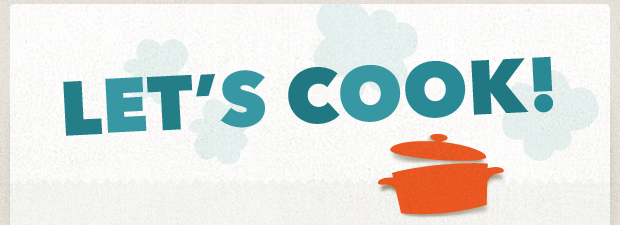
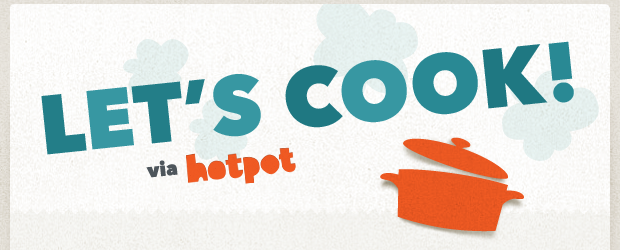
coded new reminder email design

diff --git a/templates/email/reminder.html b/templates/email/reminder.html
@@ -1,8 +1,118 @@
+<table width="100%" bgcolor="#e5e2da" style="background:url(http://test.letsgohotpot.com/static/images/email/bg.png);" cellpadding="20" cellspacing="0" border="0"><tr><td align="center">
+
+<table cellpadding="0" cellspacing="0" width="620" bgcolor="#ffffff" style="background:url(http://test.letsgohotpot.com/static/images/email/bg_Main.png);">
+
+	<!-- INVITE HEADER -->
+
+	<tr>
+		<td colspan="3">
+			<img style="display:block;" src="http://test.letsgohotpot.com/static/images/email/reminderHeader.png" width="620" height="265" alt="Get ready to cook!">
+		</td>
+	</tr>
+	
+	<!-- TITLE and DESCRIPTION -->
+	
+	<tr>
+		<td width="50" style="background:url(http://test.letsgohotpot.com/static/images/email/bg_MainLeft.png)"></td>
+		<td width="520" style="background:url(http://test.letsgohotpot.com/static/email/bg_Main.png)">
+		
+			<p style="text-align:center; line-height:1.5em; font-family:'Helvetica Neue', Helvetica, Arial, sans-serif; font-weight: 300; color:#4e565c; font-size:20px;">Tomorrow, <strong style="font-weight:bold;">{{ invitation.readableDate }}</strong>, is Hotpot day!</p>
+			
+			<p style="text-align:center; line-height:1.5em; font-family:'Helvetica Neue', Helvetica, Arial, sans-serif; font-weight: 300; color:#4e565c; font-size:20px;">At <strong style="font-weight:bold;">{{ invitation.readableTime|safe }}</strong>, you and <strong style="font-weight:bold;">{% for attendee in attendees %}{% if attendee.name != user.name %}{{ attendee.name }}{% endif %}{% endfor %}</strong> will be making:</p>
+			
+			<h1 style="text-align:center; font-weight:bold; color:#1c6770; font-size:35px; font-family:'Helvetica Neue', Helvetica, Arial, sans-serif;">{{ meal.title }}</h1>
+			
+			<p style="text-align:center; line-height:1.5em; font-family:'Helvetica Neue', Helvetica, Arial, sans-serif; font-weight: 300; color:#4e565c; font-size:20px;">Here is your Cooking Room:</p>
+			
+			<p style="text-align:center"><a href="http://test.letsgohotpot.com/rooms/{{ invitation._id }}" id="RSVPButton"><img src="http://test.letsgohotpot.com/static/images/email/button_launchCookingRoom.png" width="314" height="45" alt="Launch cooking room"></a></p>
+			
+			<p style="text-align:center; line-height:1.5em; font-family:'Helvetica Neue', Helvetica, Arial, sans-serif; font-weight: 300; color:#4e565c; font-size:13px;">At the agreed-upon time, just click the link above and cook away! (If you lose this email, don't worry. You can always find the link on your Hotpot Invitations page, under Upcoming.)</p>
+			
+		</td>
+		<td width="50" style="background:url(http://test.letsgohotpot.com/static/images/email/bg_MainRight.png)"></td>
+	</tr>
+	
+	<!-- a small gap -->
+	
+	<tr>
+		<td width="50" height="30" style="background:url(http://test.letsgohotpot.com/static/images/email/bg_MainLeft.png)"></td>
+		<td width="520" style="background:url(http://test.letsgohotpot.com/static/email/bg_Main.png)">
+		</td>
+		<td width="50" style="background:url(http://test.letsgohotpot.com/static/images/email/bg_MainRight.png)"></td>
+	</tr>
+	
+	<!-- ADDITIONAL INFO -->
+	
+	<tr>
+		<td width="50" style="background:url(http://test.letsgohotpot.com/static/images/email/bg_MainLeft.png)"></td>
+		<td width="520" style="background:url(http://test.letsgohotpot.com/static/email/bg_Main.png)">
+			<table cellpadding="0" cellspacing="0" border="0" width="100%">
+				<tr>
+					<td width="275" valign="top">
+					
+						<!-- SHOPPING LIST -->
+						
+						<table cellpadding="0" cellspacing="0" border="0" width="100%">
+							
+							<tr>
+								<td colspan="4" valign="top" style="vertical-align:top;"><img style="display:block;" src="http://test.letsgohotpot.com/static/images/email/text_shoppingList.png" alt="Shopping List" height="75" width="275"></td>
+							</tr>
+							
+							{% for ingredient in meal.ingredients %}
+							<tr>
+								<td width="20" style="background:url(http://test.letsgohotpot.com/static/images/email/bg_ShoppingListLeft.png)"></td>
+								<td height="35" style="font-family:'Helvetica Neue', Helvetica, Arial, sans-serif; font-weight: 300; color:#4e565c; font-size:16px; {{ loop.cycle('background:url(http://test.letsgohotpot.com/static/images/email/bg_ShoppingListBlueStripe.png);', '') }}">&nbsp; &nbsp;{{ ingredient.name }}</td>
+								<td align="right" style="text-align:right; font-family:'Helvetica Neue', Helvetica, Arial, sans-serif; font-weight: bold; color:#4e565c; font-size:12px; {{ loop.cycle('background:url(http://test.letsgohotpot.com/static/images/email/bg_ShoppingListBlueStripe.png);', '') }}">{% if ingredient.amount is defined %}{{ ingredient.amount }}{% endif %}&nbsp; &nbsp;</td>
+								<td width="20" style="background:url(http://test.letsgohotpot.com/static/images/email/bg_ShoppingListRight.png)"></td>
+							</tr>
+							{% endfor %}
+							
+							<tr>
+								<td colspan="4"><img style="display:block;" src="http://test.letsgohotpot.com/static/images/email/shoppingListBottom.png" height="21" width="275"></td>
+							</tr>
+						</table>
+					</td>
+					<td width="30" align="center"></td>
+					<td width="217" valign="top" style="vertical-align:top;" style="text-align:left">
+					
+						<!-- ADDITIONAL INFO -->
+					
+						<img style="display:block;" src="http://test.letsgohotpot.com/static/images/email/text_makeSureYouHave.png" width="193" height="13" alt="Make sure you have...">
+						<ul style="font-family:'Helvetica Neue', Helvetica, Arial, sans-serif; color:#4e565c; font-size:13px; line-height:1.4em;">
+							<li>your ingredients</li>
+							<li>a stable internet connection</li>
+							<li>a webcam (highly recommended)</li>
+							<li>the latest version of your favorite browser</li>
+							<li>Flash 11</li>
+						</ul>
+						
+						<img style="display:block;" src="http://test.letsgohotpot.com/static/images/email/text_dontForget.png" width="128" height="13" alt="Don't forget...">
+						
+						<p style="font-family:'Helvetica Neue', Helvetica, Arial, sans-serif; color:#4e565c; font-size:13px; line-height:1.4em;">If there are any ingredients that need defrosting, remember to put them in the fridge overnight so it’s ready to use when you need it.</p>
+					</td>
+				</tr>
+			</table>
+		</td>
+		<td width="50" style="background:url(http://test.letsgohotpot.com/static/images/email/bg_MainRight.png)"></td>
+	</tr>
+	
+	<!-- FOOTER -->
+	
+	<tr>
+		<td colspan="3">
+			<img style="display:block;" src="http://test.letsgohotpot.com/static/images/email/footer.png" width="620" height="115" alt="Brought to you by Hotpot">
+		</td>
+	</tr>
+</table>
+
+</td></tr></table>
+
+
 <h1>We're cooking... tomorrow!</h1>
 
 <h2>Info:</h2>
 <p>Cooking: {{ meal.title }}</p>
-<p>Date: Tomorrow, {{ invitation.readableDate }}</p>
+<p>Date: Tomorrow, </p>
 <p>Time: {{ invitation.readableTime|safe }}</p>
 <p><a href="http://localhost:7777/rooms/{{ invitationId }}">cooking room is here!</a></p>
 

diff --git a/templates/email/invitation.html b/templates/email/invitation.html
@@ -6,7 +6,7 @@
 
 	<tr>
 		<td colspan="3">
-			<img style="display:block;" src="http://test.letsgohotpot.com/static/images/email/invitationHeader.png" width="620" height="225" alt="Let's Cook!">
+			<img style="display:block;" src="http://test.letsgohotpot.com/static/images/email/invitationHeader.png" width="620" height="250" alt="Let's Cook!">
 		</td>
 	</tr>
 	
@@ -139,9 +139,22 @@
 					
 						<!-- HOW THIS WORKS -->
 					
-						<img style="display:block;" src="http://test.letsgohotpot.com/static/images/email/text_HowThisWorks.png" width="179" height="13" alt="How does this work?">
-						<p style="font-family:'Helvetica Neue', Helvetica, Arial, sans-serif; color:#4e565c; font-size:13px; line-height:1.4em;">Hotpot is a web app that lets people from anywhere in the world cook together online. To cook with me, you'll need a webcam and the latest version of your favorite web browser.</p>
-						<p style="font-family:'Helvetica Neue', Helvetica, Arial, sans-serif; color:#4e565c; font-size:13px; line-height:1.4em;">If you have all those things, simply accept my invitation and you’ll get a special link to our own Cooking Room. At the appointed time, we’ll meet there and cook this meal together!</p>
+						<img style="display:block;" src="http://test.letsgohotpot.com/static/images/email/text_whatIsHotpot.png" width="180" height="40" alt="What is Hotpot?">
+						<p style="font-family:'Helvetica Neue', Helvetica, Arial, sans-serif; color:#4e565c; font-size:13px; line-height:1.4em;">Hotpot is a website that lets you cook together with anyone, anywhere in the world!</p>
+						<p style="font-family:'Helvetica Neue', Helvetica, Arial, sans-serif; color:#4e565c; font-size:13px; line-height:1.4em;">If you accept this invitation, you'll get a special link to a Cooking Room, where we can meet and make the above meal together.</p>
+						
+						
+						<img style="display:block;" src="http://test.letsgohotpot.com/static/images/email/text_whatDoINeed.png" width="180" height="13" alt="What do you need?">
+						
+						<p style="font-family:'Helvetica Neue', Helvetica, Arial, sans-serif; color:#4e565c; font-size:13px; line-height:1.4em;">To get the most out of Hotpot, you'll need:</p>
+						
+						<ul style="font-family:'Helvetica Neue', Helvetica, Arial, sans-serif; color:#4e565c; font-size:13px; line-height:1.4em;">
+							<li>a stable internet connection</li>
+							<li>a webcam (highly recommended)</li>
+							<li>the latest version of your favorite browser</li>
+							<li>Flash 11</li>
+						</ul>
+
 						<p style="font-family:'Helvetica Neue', Helvetica, Arial, sans-serif; color:#4e565c; font-size:13px; line-height:1.4em;">To learn more about Hotpot, check out the site: <a href="http://letsgohotpot.com" style="color:#f07239; text-decoration:none;">LetsGoHotpot.com</a></p>
 					</td>
 				</tr>

diff --git a/templates/reply.html b/templates/reply.html
@@ -116,7 +116,7 @@
 		<img id="recipeImage" src="/static/images/food/{{ meal.slug }}.jpg" width="300" />
 		<h1>{{ meal.title }}</h1>
 		
-		<p>{{ meal.description }}</p>
+		<p>{{ meal.shortDescription }}</p>
 		
 		<dl id="details">
 			<dt class="date">Date</dt>

diff --git a/index.py b/index.py
@@ -774,11 +774,13 @@ def showInvitation(id):
 ##############################################################################
 # SENDING A COOKING REMINDER
 
-hourToSendReminders = 4
+hourToSendReminders = 6
 checkForReminderTimeInterval = 300 # 5min
 
 # check at short intervals whether it's time to send out reminder emails yet
 def checkWhetherItsTimeToSendOutReminderEmails():
+
+	print "checking whether it's time to send out reminder emails"
 
 	# perform the check right away...
 	currentTime = time.time()
@@ -787,18 +789,21 @@ def checkWhetherItsTimeToSendOutReminderEmails():
 	currentHour = datetime.datetime.fromtimestamp(currentTime).hour
 	
 	# if current time matches the designated reminder-sending time...
-	# then start the 2nd timer which actually sends out reminders... and repeats every 24 hours
 	if currentHour == hourToSendReminders:
+		print "yes, it appears to be time"
+		
 		# ... then see which reminders to send out
 		checkWhichCookingsAreComingUp()
 	
-	else:
-		timer = threading.Timer(checkForReminderTimeInterval, checkWhetherItsTimeToSendOutReminderEmails)
-		timer.daemon = True
-		timer.start()
+	# repeat
+	timer = threading.Timer(checkForReminderTimeInterval, checkWhetherItsTimeToSendOutReminderEmails)
+	timer.daemon = True
+	timer.start()
 
 
 def checkWhichCookingsAreComingUp():
+
+	print "grab all future cookings!"
 	
 	# grab a list of ALL the invitations that were accepted
 	cookings = list(db.invitations.find({'itsHappening' : True}))
@@ -811,24 +816,20 @@ def checkWhichCookingsAreComingUp():
 	
 	for cooking in cookings:
 		# if the cooking event is happening "tomorrow"...
-		if currentTime+86400*2 >= cooking['datetime'] and currentTime+8640 <= cooking['datetime']:
+		if currentTime+86400 <= cooking['datetime'] <= currentTime+86400*2:
+			print "here's one happening tomorrow"
 			# add it to the upcoming cookings array!
 			upcomingCookings.append(cooking)
 	
-	# send remindsers for all the upcoming cookings
+	# send reminders for all the upcoming cookings
 	for cooking in upcomingCookings:
 		if 'reminderSent' not in cooking:
 			
+			# just in case: set a flag in the DB for reminder sent, so it doesn't get sent multiple times by accident
+			cooking['reminderSent'] = True
+			db.invitations.save(cooking)
+			
 			urllib2.urlopen(BASE_URL + '/sendCookingReminder?invitationId=' + str(cooking['_id'])).read()
-		
-		# just in case: set a flag in the DB for reminder sent, so it doesn't get sent multiple times by accident
-		cooking['reminderSent'] = True
-		db.invitations.save(cooking)
-	
-	# repeat every 24 hours
-	timer = threading.Timer(86400, checkWhichCookingsAreComingUp)
-	timer.daemon = True
-	timer.start()
 
 
 # called by checkForUpcomingCooking() above if the cooking is within the next 48 hours
@@ -845,18 +846,15 @@ def sendCookingReminder():
 	# grab info about attendees
 	attendees = []
 	
-	# also store attendee addresses in its own array for mailing purposes
-	attendeeEmails = []
-	
 	# first add host info... because a host is an attendee, too!
 	host = db.users.find_one({'_id' : ObjectId(invitation['hostId'])})
 	hostInfo = {
 		'userpic' : host['userpic'],
-		'name' : host['name']
+		'name' : host['name'],
+		'email' : host['email']
 	}
 	
 	attendees.append(hostInfo);
-	attendeeEmails.append(host['email'])
 	
 	# grab all the infos of the people who said yes...
 	for reply in invitation['replies']:
@@ -868,11 +866,11 @@ def sendCookingReminder():
 		attendee = db.users.find_one({'_id' : ObjectId(reply['userId'])})
 		attendeeInfo = {
 			'userpic' : attendee['userpic'],
-			'name' : attendee['name']
+			'name' : attendee['name'],
+			'email' : attendee['email']
 		}
 		
 		attendees.append(attendeeInfo)
-		attendeeEmails.append(attendee['email'])
 	
 	invitation['attendees'] = attendees
 	
@@ -884,14 +882,22 @@ def sendCookingReminder():
 	}
 	
 	# compose and send email for every attendee
-	email = Message("Get Ready to Cook!", recipients=attendeeEmails)
-	email.html = render_template('email/reminder.html', invitation=invitation, attendees=attendees, meal=meal)
-	mail.send(email)
+	# we do it one at a time instead of feeding Message() an array because we actually want each email to be slightly different:
+	# it should say 'you' instead of the recipient's name, because being addressed in the third person is weird
 	
-	return "sent!"
+	for attendee in attendees:
+		print 'reminder email sent to ' + attendee['name'] + ' for ' + invitation['readableDate']
+		
+		email = Message("Get Ready to Cook!", recipients=[attendee['email']])
+		email.html = render_template('email/reminder.html', invitation=invitation, attendees=attendees, meal=meal, user=attendee)
+		mail.send(email)
+	
+	return "reminder email sent!"
 
+# I have no initialization function, so I'll just leave this here...
 # start checking a few moments after the server starts
 # the delay is to give the server some time to boot up..?
+print "calling check function"
 timer = threading.Timer(5, checkWhetherItsTimeToSendOutReminderEmails)
 timer.daemon = True
 timer.start()
